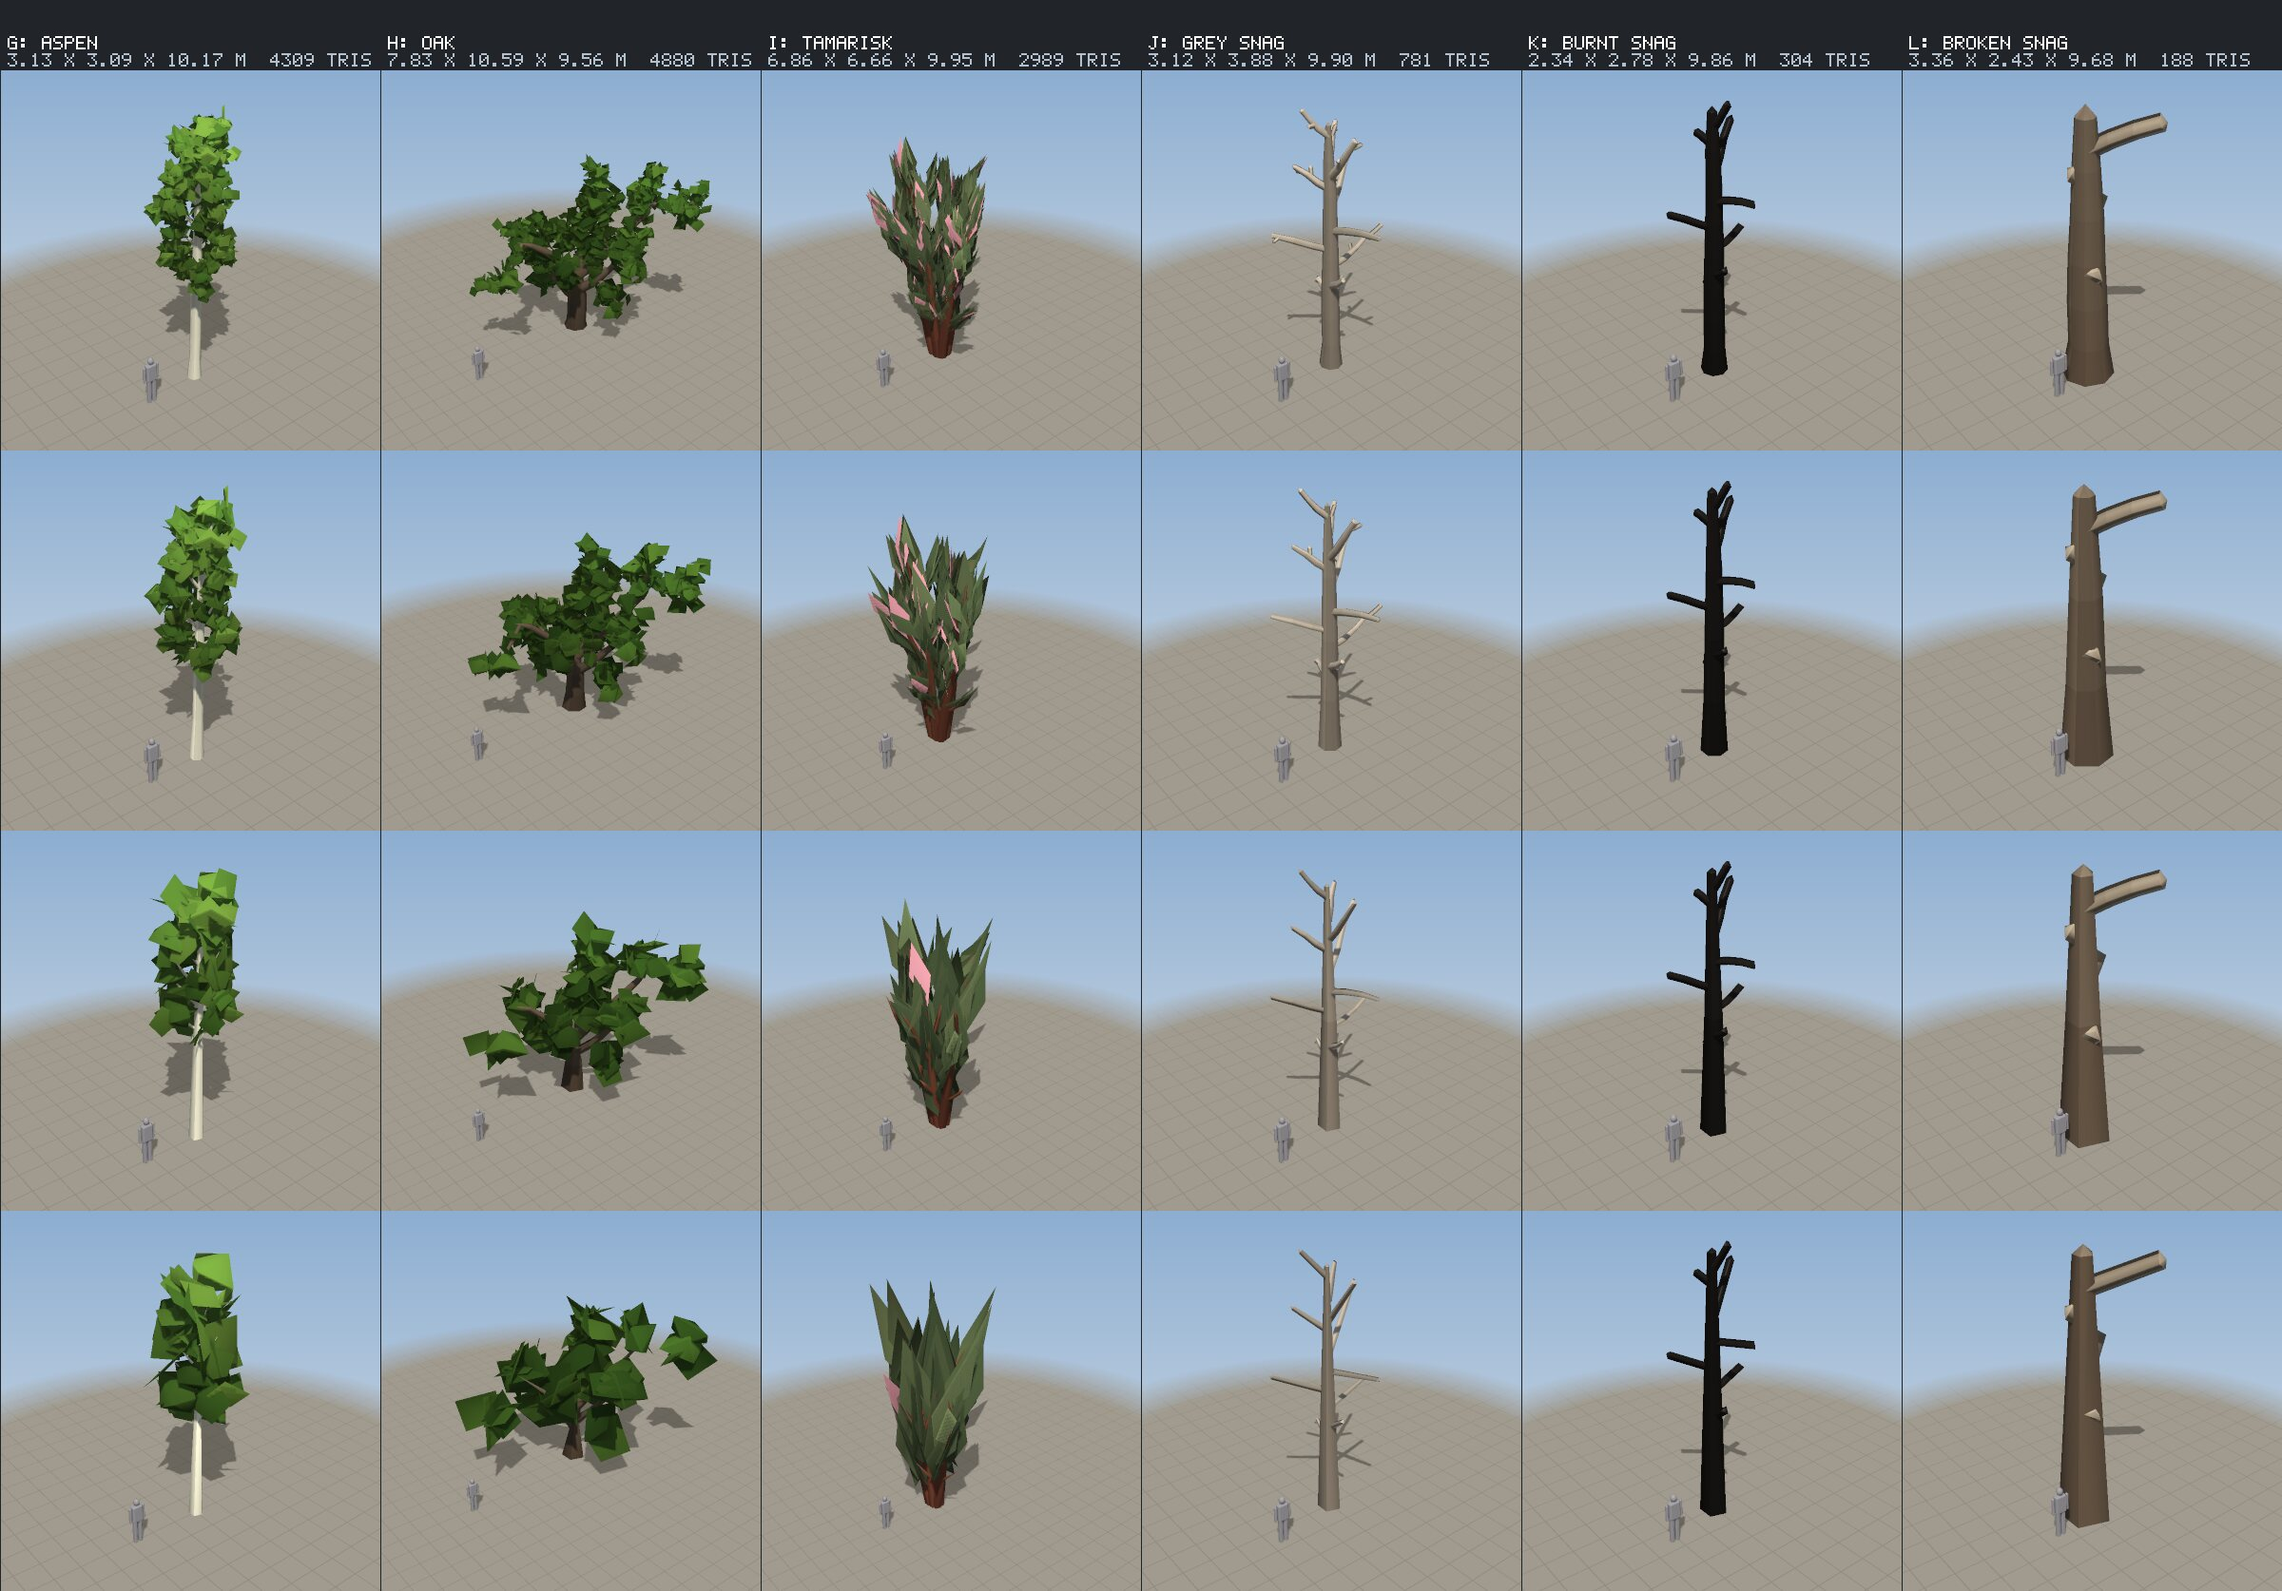
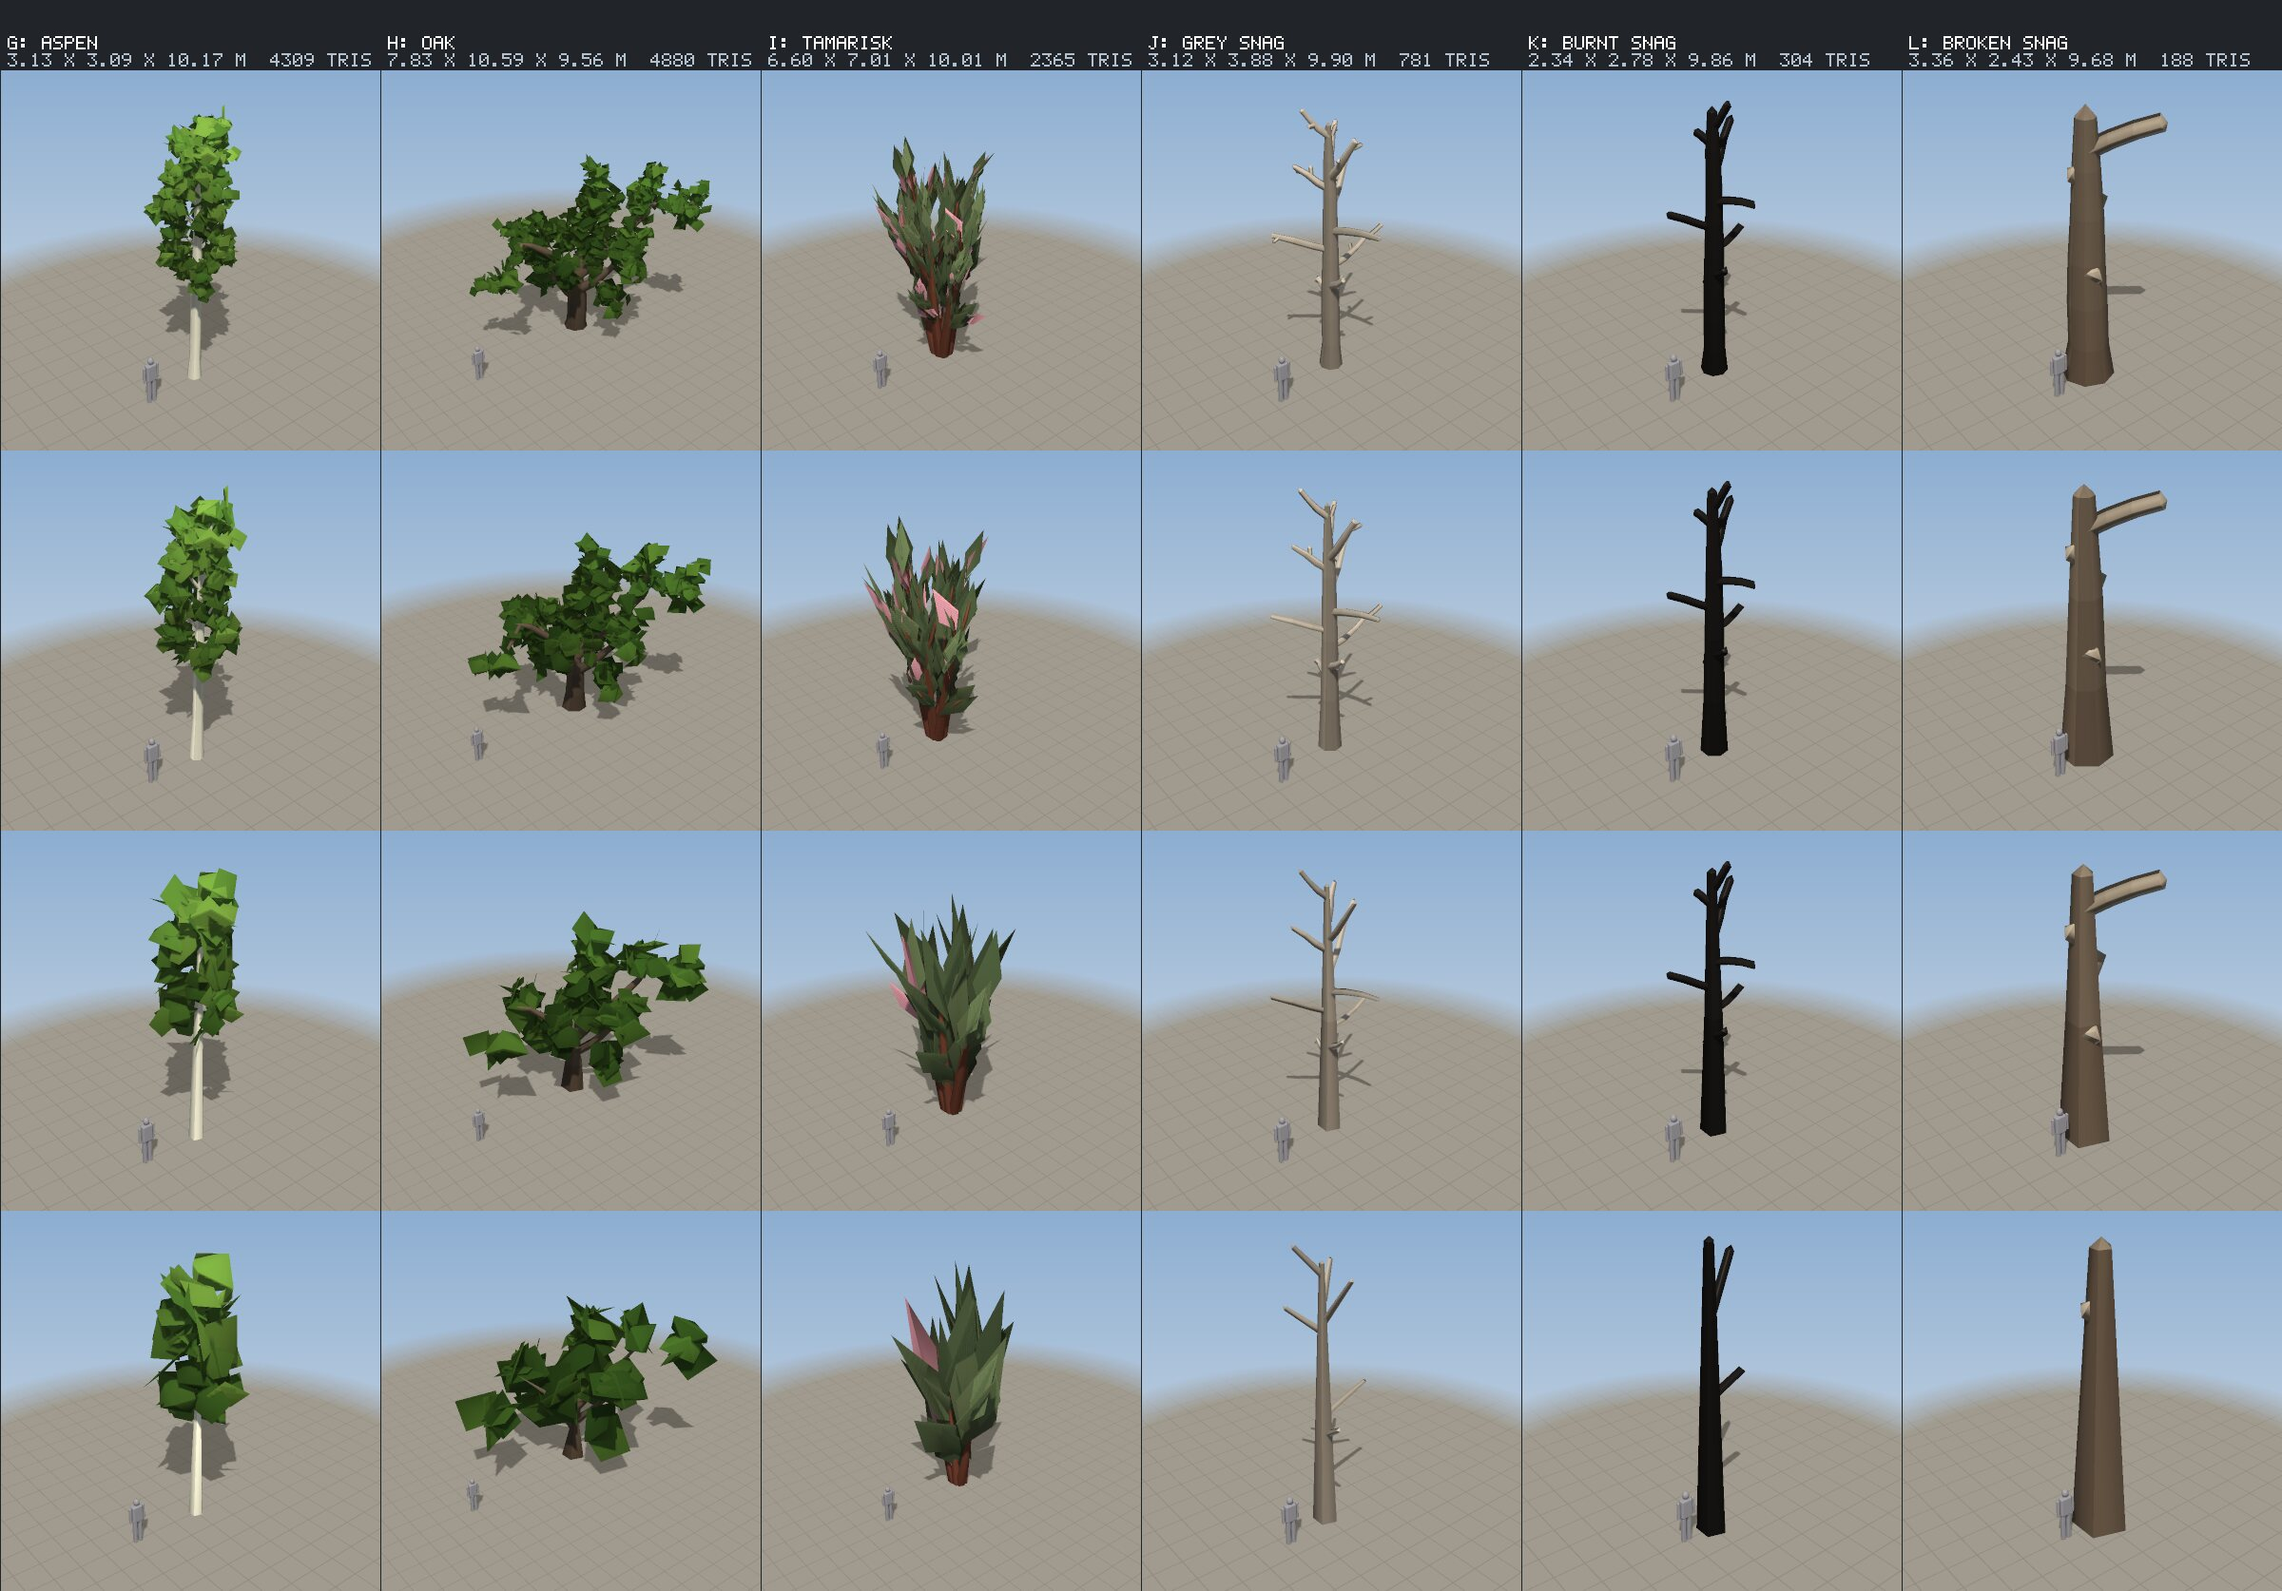
Generated plants tuned from the shots: solid tufts under cut leaf cards, thick limbs kept in far copies, mound shrubs, brighter foliage; the yard shows the trees small
tests/procplants.cpp's pinned hashes updated for the generator changes; tests/models.cpp gets budgets for tree_gen and shrub_gen.

diff --git a/src/plantgen.cpp b/src/plantgen.cpp
@@ -318,7 +318,7 @@ struct Woody {
         double top = 0.05, wide = 0.01;
         const double margin = sp.v("cards") > 0 ? sp.v("card", 0) * 0.8 + sp.v("scatter") : 0;
         for (const Br& b : br)
-            for (const V3& q : b.p) top = std::max(top, q.y + (b.dead ? 0 : margin)), wide = std::max(wide, std::sqrt(q.x * q.x + q.z * q.z) + margin);
+            for (const V3& q : b.p) top = std::max(top, q.y + (b.snapped ? sp.v("trunk_radius") * 1.1 : b.dead ? 0 : margin)), wide = std::max(wide, std::sqrt(q.x * q.x + q.z * q.z) + margin);
         const double k = 1 / top;
         double kx = k;
         if (sp.v("width") > 0) kx = k * std::min(1.7, std::max(0.6, sp.v("width") / (wide * k)));
@@ -495,7 +495,7 @@ void card(Out& out, const V3& c, const V3& a, const V3& s, double L, double w, c
 // A puff: a small lumpy solid (a five-sided double pyramid, every corner pushed in or out so no two have the same outline),
 // shaded round and from the crown, lighter on top.
 void puff(Out& out, const V3& c, const V3& axis, double r, double tall, const Crown& cr, const V3& col, const V3& top, Rng& r_) {
-    const V3 a = norm(UP + axis * 0.6 + r_.unit() * 0.45), u = perp(a), w = cross(a, u);
+    const V3 a = norm(UP * 0.5 + axis * 0.5 + r_.unit() * 0.9), u = perp(a), w = cross(a, u);
     const double turn = r_.u() * 2 * kPi;
     V3 v[7], n[7], k[7];
     v[0] = a * (r * (0.75 + 0.5 * r_.u())), v[1] = a * (-r * (0.6 + 0.4 * r_.u()));
@@ -509,7 +509,7 @@ void puff(Out& out, const V3& c, const V3& axis, double r, double tall, const Cr
         v[i] = c + d;
         const V3 fromCrown = norm(V3((v[i].x - cr.c.x) / cr.r.x, (v[i].y - cr.c.y) / cr.r.y, (v[i].z - cr.c.z) / cr.r.z));
         n[i] = norm(norm(d) * 0.5 + fromCrown * 0.5 + UP * 0.1);
-        k[i] = vmix(col * 0.8, top, clamp01(0.5 + 0.5 * d.y / std::max(1e-9, r * tall)));
+        k[i] = vmix(col * 0.86, top, clamp01(0.5 + 0.5 * d.y / std::max(1e-9, r * tall)));
     }
     for (int i = 0; i < 5; i++) {
         const int p = 2 + i, q = 2 + (i + 1) % 5;
@@ -544,11 +544,13 @@ void woody(const Species& sp, const Options& o, Out& out, double scale) {
             if (!sp.tree && !bare && b.order >= 1) continue;
         } else if (lod == 2) {
             if (b.order >= 2) continue;
-            if (b.order == 1 && (!bare || (!sp.tree && (i % 2)) || (b.dead && !leafless && (i % 2)))) continue;
+            // (a tree keeps its thick limbs: a trunk that stopped at the fork stood as a spike under a floating crown)
+            const bool thick = sp.tree && orders > 3 && b.r[0] > R0 * 0.3;
+            if (b.order == 1 && !thick && (!bare || (!sp.tree && (i % 2)) || (b.dead && !leafless && (i % 2)))) continue;
             if (!sp.tree && stem && i > 0 && (i % 2) && !leafless && !green) continue;
         } else if (lod == 3) {
             if (b.order >= 2) continue;
-            if (b.order == 1 && !(leafless && sp.tree && !(i % 3))) continue;
+            if (b.order == 1 && !(leafless && sp.tree && !(i % 3)) && !(sp.tree && orders > 3 && b.r[0] > R0 * 0.45)) continue;
             if (stem && i > 0 && (i % 3)) continue;
         }
         const double rr = b.r[0] / std::max(1e-9, R0);

diff --git a/src/models/procplants.cpp b/src/models/procplants.cpp
@@ -19,14 +19,18 @@ std::vector<ModelDef> make() {
             if (c == ':' || c == ',') c = ' ';
         v.blurb = s.blurb;
         v.params = {seedParam(1), choice("lod", "DETAIL", 0, {"FULL", "NEAR", "FAR", "FARTHEST"})};
+        v.params.push_back(num("scale", "SIZE", 1, 0.25, 1.5, 0.05));  // (the proving ground's yard shows the trees small, so they fit)
         if (s.tree) v.params.push_back(choice("snow", "SNOW", 0, {"CLEAR", "SNOWY"})), v.params.push_back(choice("season", "SEASON", 0, {"SUMMER", "LATE SUMMER", "AUTUMN"}));
         else v.params.push_back(choice("dry", "DRY", 0, {"GREEN", "DRY"}));
         v.build = [sp](B& b, const P& p) {
             plantgen::Options o;
             o.seed = (uint32_t)std::max(1, p.i("seed")), o.lod = p.i("lod"), o.snow = p.i("snow") != 0, o.dry = p.i("dry"), o.season = p.i("season");
             plantgen::generate(*sp, o, b.out());
-            for (MVert& q : b.out().v)
+            const float k = p.has("scale") ? (float)p("scale") : 1.0f;
+            for (MVert& q : b.out().v) {
                 if (q.mat == LEAFCUT) q.mat = FOLIAGE;  // (the kit's renderers don't cut leaf cards: plain foliage here)
+                for (float& c : q.p) c *= k;
+            }
         };
         (s.tree ? trees : shrubs).variants.push_back(std::move(v));
     }

diff --git a/tests/models.cpp b/tests/models.cpp
@@ -19,6 +19,7 @@ namespace {
 size_t budgetFor(const std::string& id) {
     static const std::map<std::string, size_t> b = {
         {"tree_pine", 700}, {"tree_broadleaf", 420}, {"tree_snag", 220}, {"tree_dryland", 520}, {"bush", 130}, {"stump", 80},
+        {"tree_gen", 6500}, {"shrub_gen", 1100},  // (the generated plants: their full models, drawn within 30 m and 11 m; tests/procplants.cpp has every far copy's budget)
         {"marker_post", 100}, {"cairn", 250}, {"trail_sign", 400}, {"person", 2500},
         {"repair_shed", 12000}, {"fire_tower", 12000}, {"sign_gantry", 12000}, {"race_gate", 12000},
         {"cabin", 6500}, {"timber_bridge", 12000}, {"garage", 6000}, {"ranger_station", 12000}, {"mine_headframe", 12000}, {"chain_bundle", 2600}, {"crate_engine_v8", 3600}, {"crate_engine_v8_dohc", 3600}, {"crate_engine_v6", 3600}, {"crate_engine_i4", 3600}, {"crate_engine_i3", 3600}, {"crate_engine_flat4", 3600}, {"wreck_pickup", 10000}, {"ore_cart", 5000}, {"mine_portal", 6000}, {"jersey_barrier", 6000}, {"guardrail", 6000},

diff --git a/src/world.cpp b/src/world.cpp
@@ -647,6 +647,7 @@ void World::buildModelYard() {
         if (id == "race_gate") return {{"width", 10}};
         if (id == "guardrail") return {{"length", 8}};
         if (id == "jersey_barrier") return {{"length", 6}};
+        if (id == "tree_gen") return {{"scale", 0.3}};  // (a species a design: a dozen 10 m trees in a row would run off the pad)
         return {};
     };
     auto see = [](const std::string& id) { return id != "fp_hand" && id != "lug_nut" && id != "waterfall" && id != "timber_bridge" && (id.rfind("wreck_", 0) != 0 || id == "wreck_pickup"); };  // (the falls: drawn by the water pass, on rivers; the bridges span rivers, 10-40 m: the procedural world's)

diff --git a/tests/procplants.cpp b/tests/procplants.cpp
@@ -145,7 +145,7 @@ SCENARIO(procPlantsDeterminism, "procplants/determinism", "The same species and 
     const uint64_t h0 = meshHash(grow(t, 1, 0)), h1 = meshHash(grow(t, 7, 2)), h2 = meshHash(grow(t, 2, 0, true));
     std::printf("  test tree hashes: %016llx %016llx %016llx\n", (unsigned long long)h0, (unsigned long long)h1, (unsigned long long)h2);
     ctx.check("pinned: seed 1, full", h0 == 0x56e5ef581aa25143ull);
-    ctx.check("pinned: seed 7, far", h1 == 0xe95d8d610f20ac82ull);
+    ctx.check("pinned: seed 7, far", h1 == 0x3566381dda181599ull);
     ctx.check("pinned: seed 2, snowy", h2 == 0x310a289a9c78dad3ull);
 }
 
